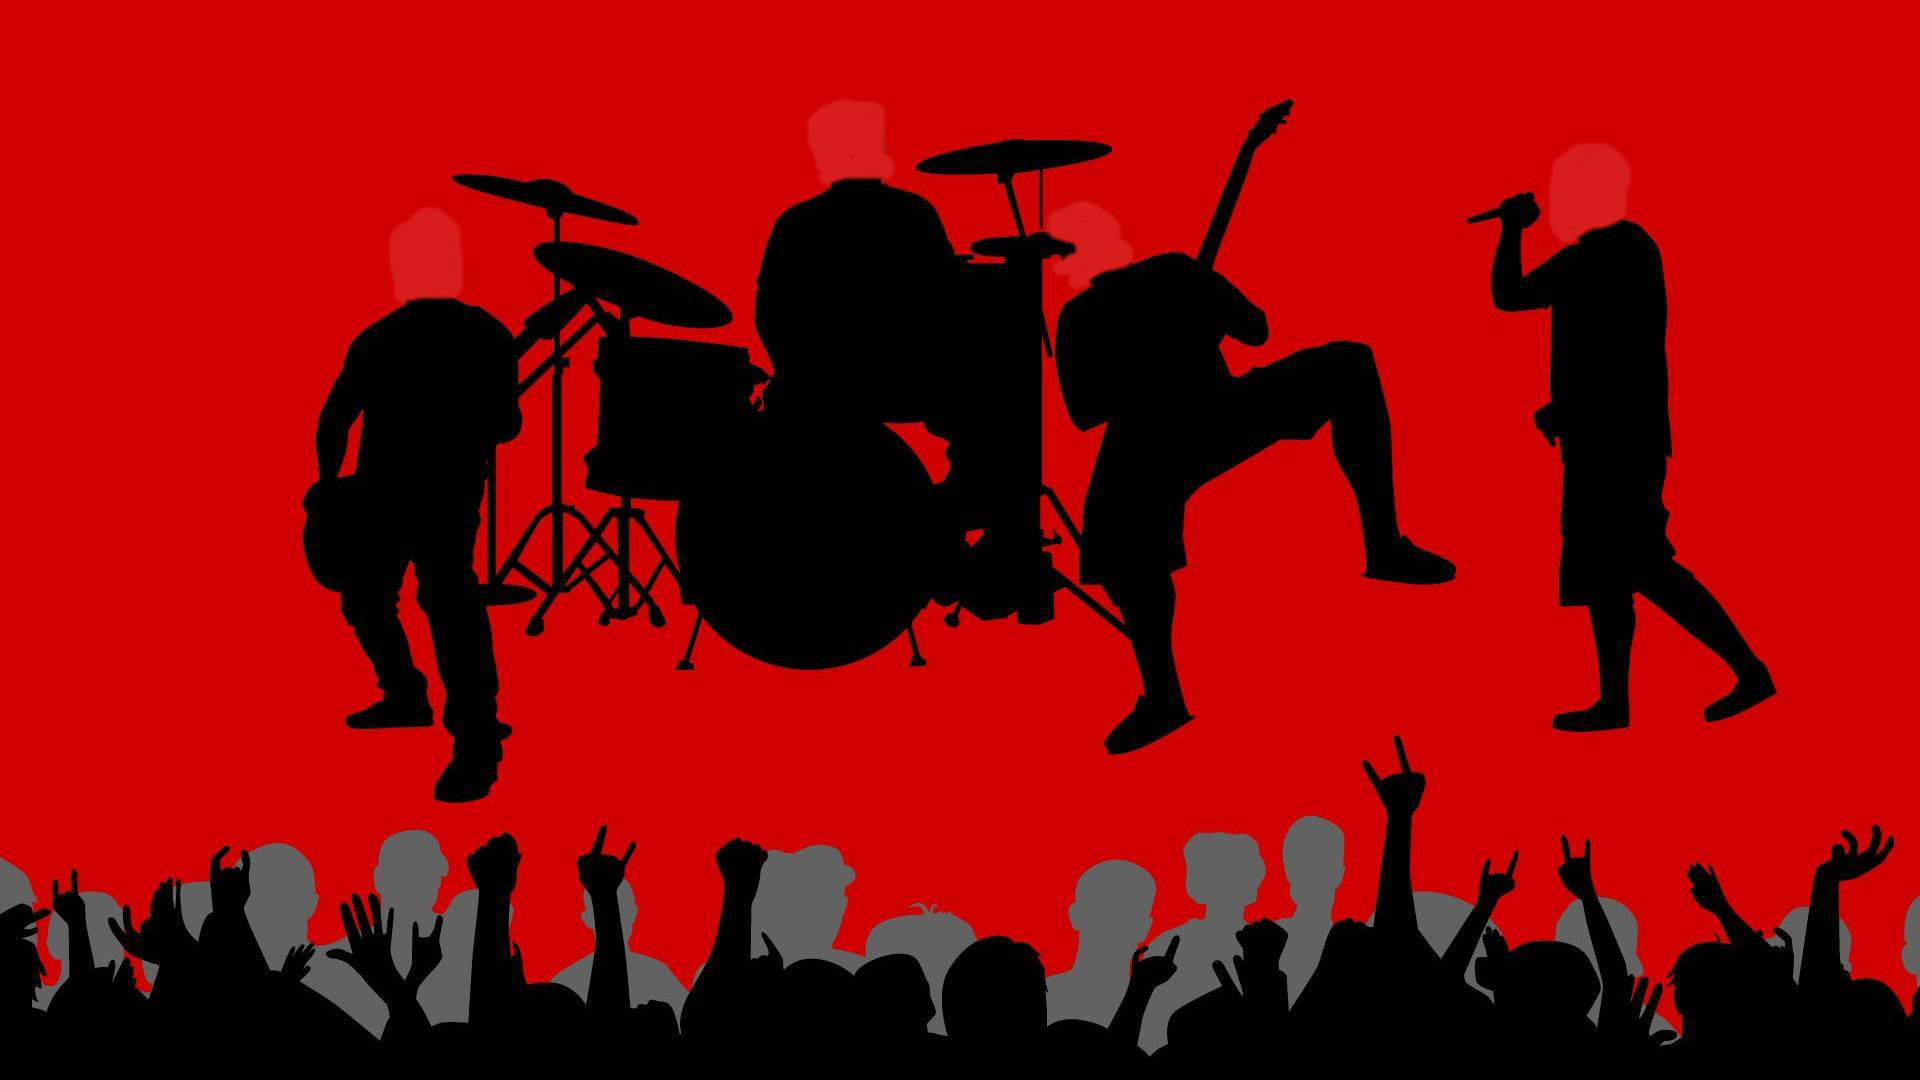
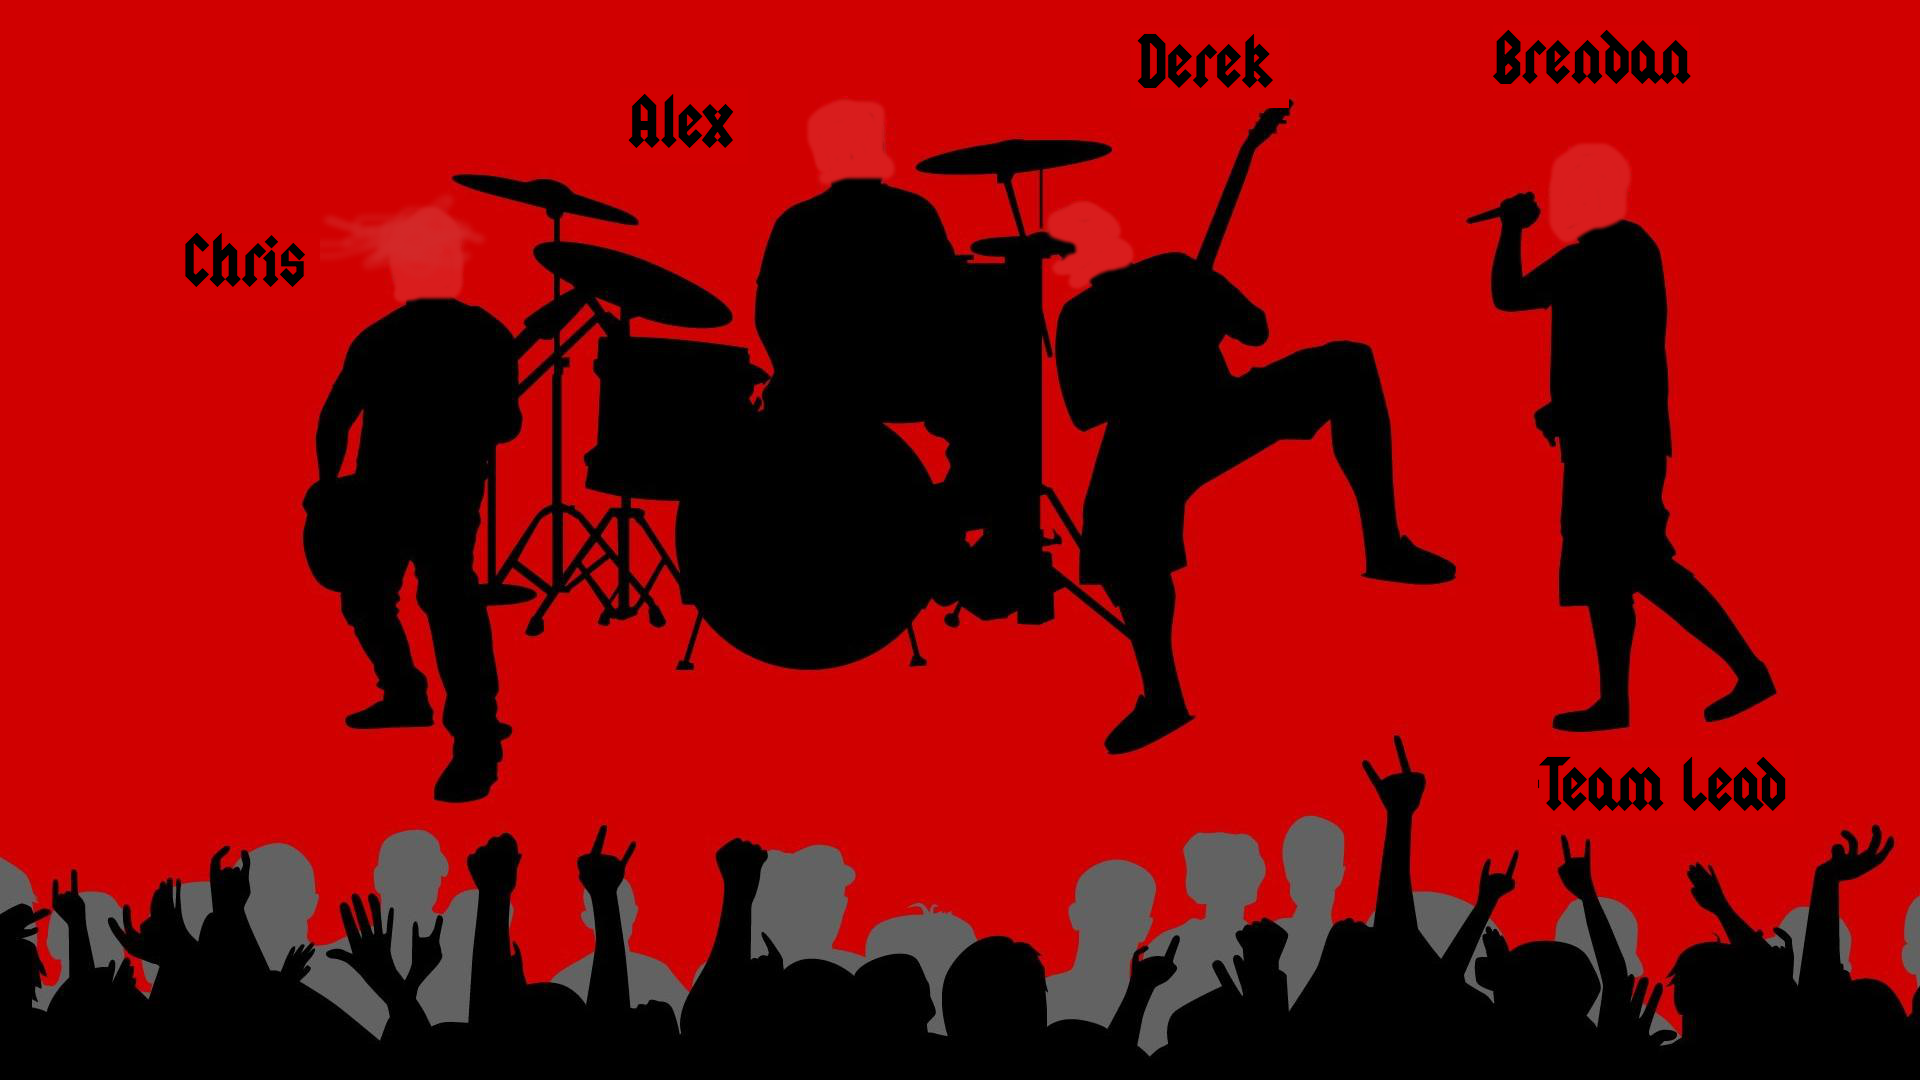
add names to music.png photo and adjust to main screen

diff --git a/public/css/style.css b/public/css/style.css
@@ -9,11 +9,9 @@ html {
 
 
 body {
-  background-color: white; 
   margin: auto;
   margin: 5px;
   overflow: scroll;
-  top: 0;
   font-family: "squealer";
 }
 
@@ -87,7 +85,7 @@ body {
 
 #homepage {
   background-image: url("/images/music.png");
-  background-size: 80% 110%;
+  background-size: 80% 160%;
   display: block; 
   position: relative;
   top: 0;
@@ -107,59 +105,39 @@ body {
 @keyframes spin { 50% { -webkit-transform: rotate(40deg); transform:rotate(20deg); } }
 
 #Alex {
-  top: 26%;
+  top: 78%;
   left: 35.5%;
   width: 120px;
   height: 120px;
   margin:-60px 0 0 -60px;
 }
 
-#A {
-  top: 110%;
-  left: 75%;
-
-}
 
 #Brendan {
-  top: 30.5%;
+  top: 90%;
   left: 65.5%;
   width: 120px;
   height: 120px;
   margin:-60px 0 0 -60px;
 }
 
-#B {
-  top: 110%;
-  left: 70%;
-
-}
 
 #Chris {
-  top: 48%;
+  top: 145%;
   left: 17.5%;
   width: 120px;
   height: 120px;
   margin:-60px 0 0 -60px;
 }
 
-#C {
-  top: ;
-  left: 13%;
-}
 
 #Derek {
-  top: 42%;
+  top: 133%;
   left: 45.7%;
   width: 120px;
   height: 120px;
   margin:-60px 0 0 -60px;
 }
-
-#D {
-  left: 130%;
-
-}
-
 
 
 h1 {
@@ -168,17 +146,12 @@ h1 {
 }
 
 h3 {
+  top: 0;
   position: relative;
   left: 80.5%;
   font-size: 1em;
   color: black;
 }
-
-h4 {
-  font-size: 2em;
-}
-
-
 
 table {
   padding: 2%;

diff --git a/views/index.html b/views/index.html
@@ -12,10 +12,7 @@
 </head>
 <body id="homepage">
   <h1>Welcome to AirC<img src="http://www.animatedimages.org/data/media/41/animated-lightning-and-thunderbolt-image-0039.gif" border="0"/>DC</h1><br>
-  <h4 id="A">Alex</h4>
-  <h4 id="D">Derek</h4>
-  <h4 id="C">Chris</h4>
-  <h4 id="B">Brendan -Team Lead</h4>
+
   <h3>Choose an Air Instrument</h3>
 <div class="container">
 <a class="button" href="/drums"><button>Air Drums</button></a><br><br>
@@ -26,7 +23,7 @@
 <a class="button" href="/trump"><button>Trump Mode</button></a><br><br>
 <a class="button" href="/team"><button>About The Team</button></a><br><br>
 <a class="button" href="/scenes"><button>Behind the Scenes</button></a><br><br>
-<a class="button" href="/index"><button>Home</button></a><br><br>
+
 
 
   
